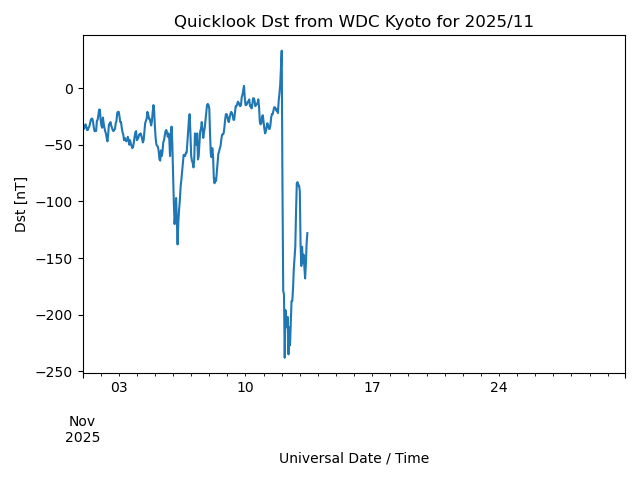
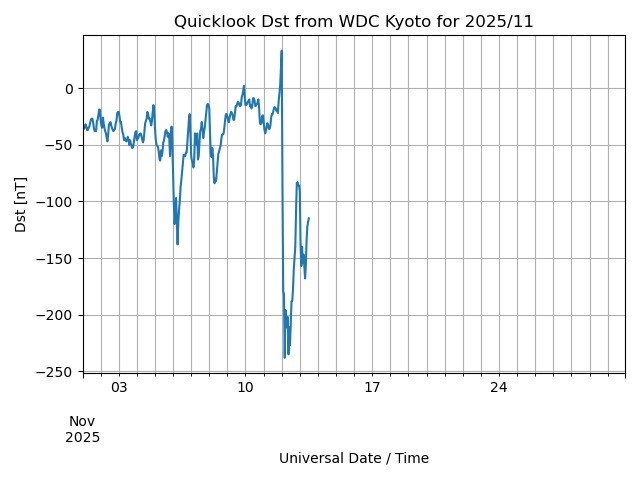
Various small improvements.

diff --git a/dst_realtime.py b/dst_realtime.py
@@ -12,8 +12,8 @@ import numpy as np
 import datetime as dt
 
 # CONSTANTS
-yyyy = dt.datetime.now().year
-mm=dt.datetime.now().month
+yyyy = dt.datetime.now(dt.timezone.utc).year
+mm=dt.datetime.now(dt.timezone.utc).month
 yy = yyyy - int(yyyy/100)*100
 hours_perday = 24
 number_length = 4
@@ -32,7 +32,9 @@ def main():
 
     # make plot
     plt.figure()
-    df.dst.plot()
+    # df.dropna().dst.plot()
+    df.dst.plot(ls='-', marker='')
+    plt.grid(which='both', axis='both')
     plt.xlabel("Universal Date / Time")
     plt.ylabel("Dst [nT]")
     plt.title(f"Quicklook Dst from WDC Kyoto for {yyyy}/{mm}")
@@ -73,15 +75,13 @@ def processDstFile(dst_filepath):
             date_str.append(line[3:7] + line[8:10])
             data_str.append(line[20:-4])
 
-    data_matrix = np.zeros((len(data_str),hours_perday))
-
     for i,text in enumerate(data_str):
         df = pd.DataFrame()
-        chunks = np.array([int(text[j:j+number_length]) for j in range(0, len(text), number_length)])
-        data_matrix[i,:] = chunks
-        start_time = dt.datetime.strptime('20'+date_str[i], '%Y%m%d')
+        start_time = dt.datetime.strptime(str(int(yyyy/100))+date_str[i], '%Y%m%d')
         df['pdate'] = pd.date_range(start=start_time, periods=hours_perday, freq='1H')
-        df['dst'] = chunks
+        df['dst'] = np.array(
+            [int(text[j:j+number_length]) for j in range(0, len(text), number_length)]
+        )
         df_list.append(df)
 
     df = pd.concat(df_list)

diff --git a/README.md b/README.md
@@ -4,6 +4,8 @@ Simple python script to download and plot the [quicklook Disturbance Storm Time 
 
 
 The real time data file is stored at https://wdc.kugi.kyoto-u.ac.jp/dst_realtime/presentmonth/dst2511.for.request
+with `2511` in the file name indicating the file is for November 2025.
+
 
 The script works by 
 
